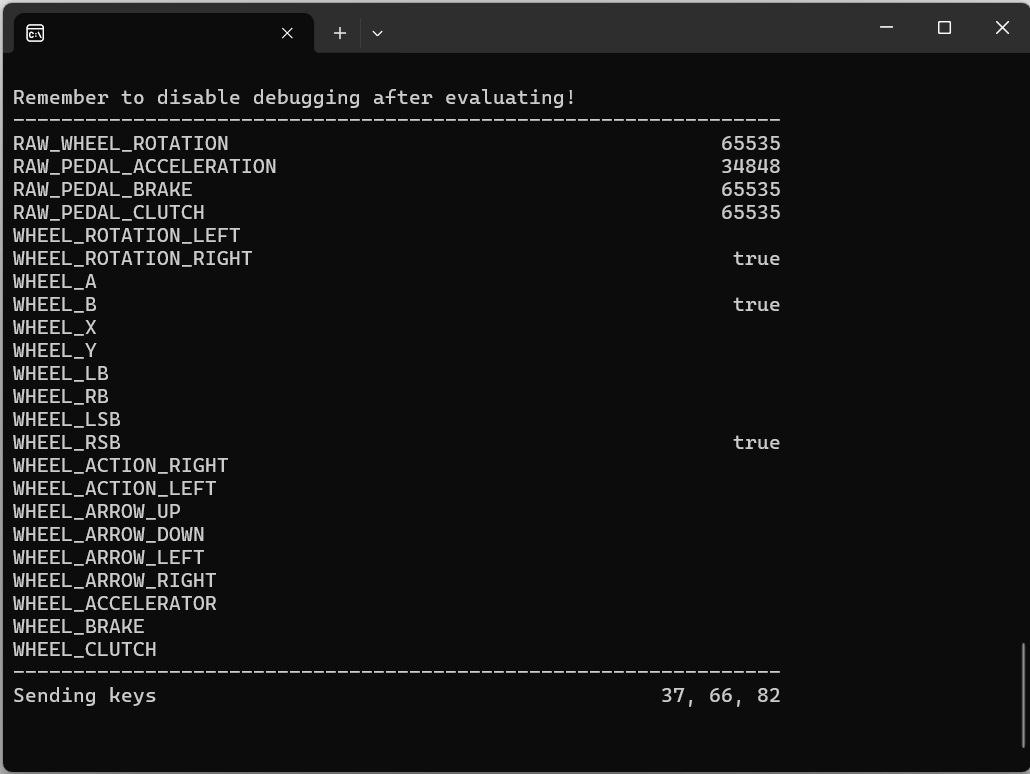
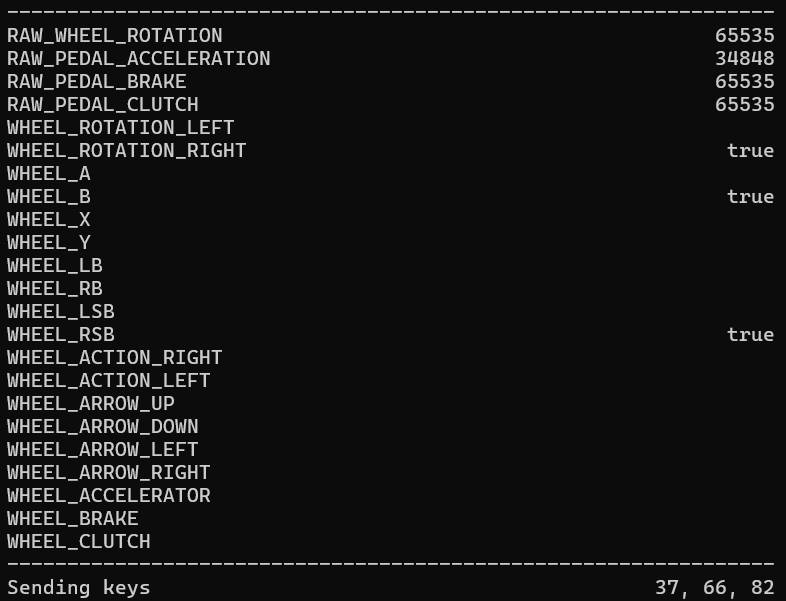
gitattributes debugging fix

diff --git a/g920-mapper/Actions/DebugAction.cs b/g920-mapper/Actions/DebugAction.cs
@@ -62,11 +62,11 @@ namespace g920_mapper.Actions
 			var rowWidth = 64;
 			var fieldWith = 50;
 			var valueWidth = rowWidth - fieldWith;
+			var line = new string('-', rowWidth);
 			var keys = string.Join(", ", _keys.Select(k => k.ToString()));
 
 			Console.WriteLine($"{DateTime.Now.ToString("G").PadRight(rowWidth)}");
-			Console.WriteLine($"{"Remember to disable debugging after evaluating!".PadRight(rowWidth)}");
-			Console.WriteLine($"{new string('-', rowWidth)}");
+			Console.WriteLine($"{line}");
 
 			var fields = typeof(WheelState).GetProperties(BindingFlags.Public | BindingFlags.Instance);
 			foreach (var field in fields)
@@ -75,7 +75,7 @@ namespace g920_mapper.Actions
 				Console.WriteLine($"{field.Name.PadRight(fieldWith)}{GetPaddedValue(value, valueWidth)}");
 			}
 
-			Console.WriteLine($"{new string('-', rowWidth)}");
+			Console.WriteLine($"{line}");
 			Console.WriteLine($"{"Sending keys".PadRight(fieldWith)}{GetPaddedValue(keys, valueWidth)}");
 		}
 	}
